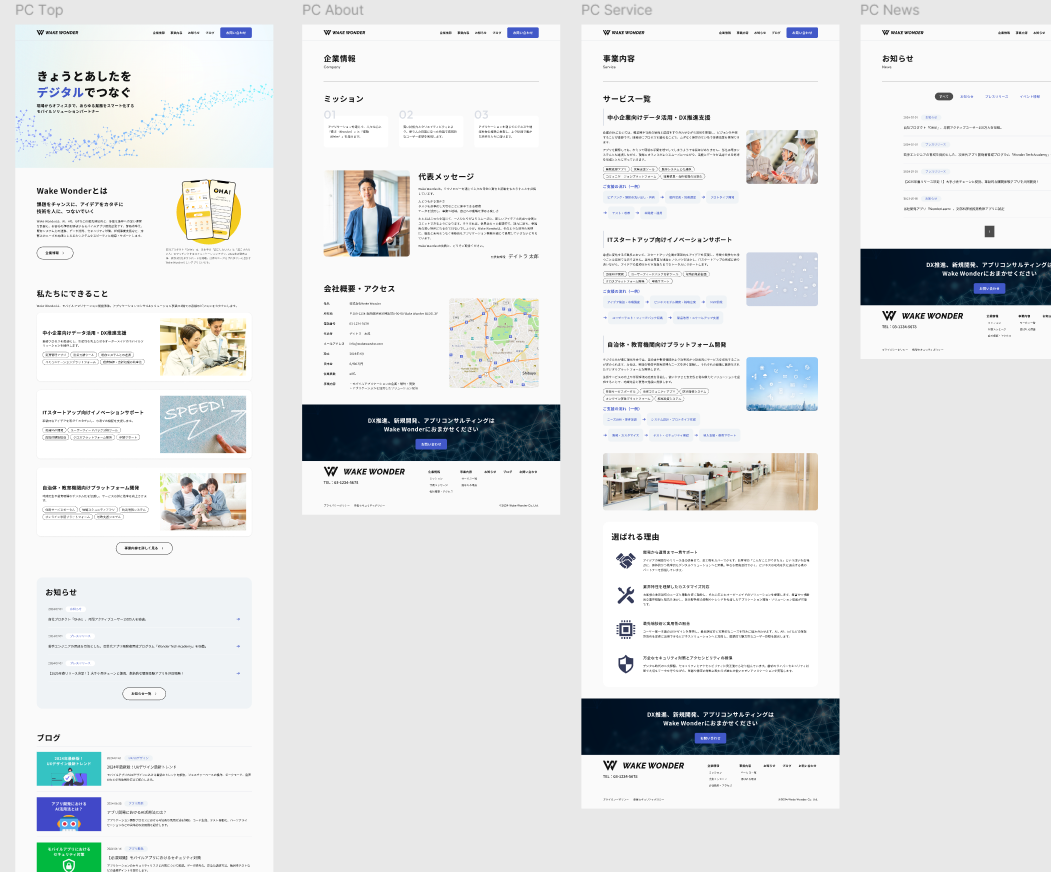
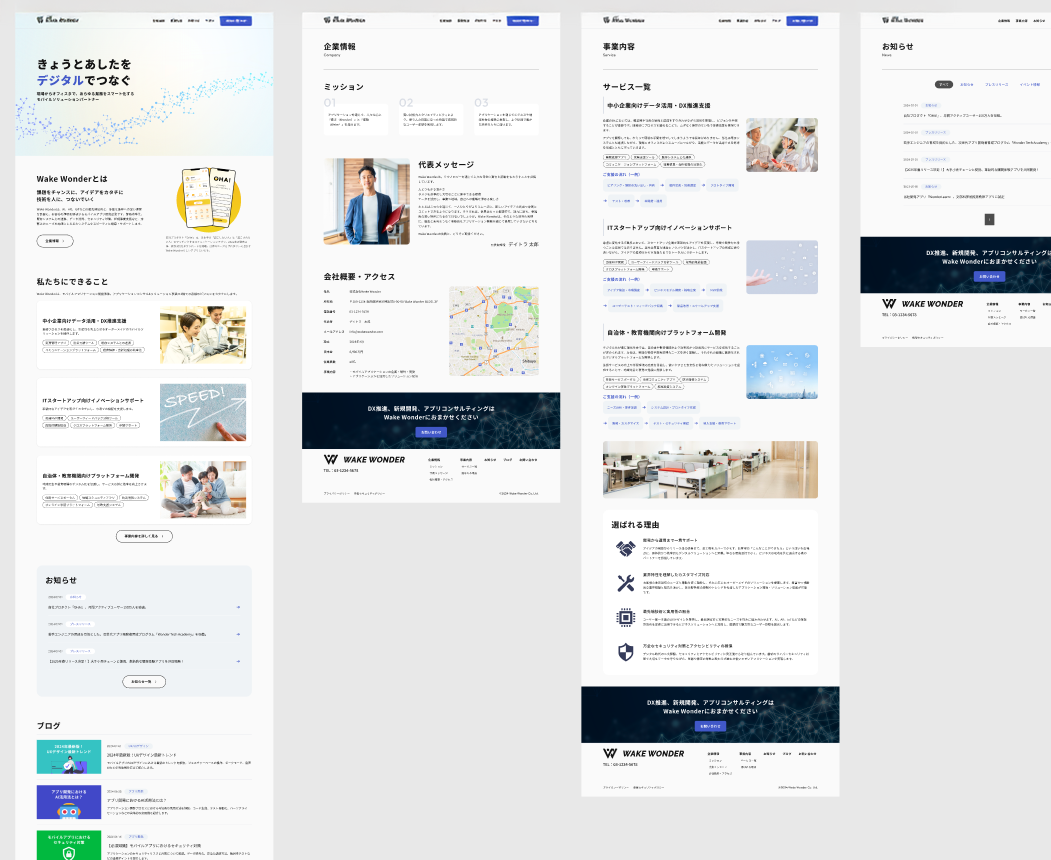
revised

diff --git a/src/styles/global.css b/src/styles/global.css
@@ -99,11 +99,11 @@ h1 {
 }
 h2 {
   font-size: var(--fs-xl);
-  margin-top: var(--sp-1);
+  margin-top: var(--sp-2);
 }
 h3 {
   font-size: var(--fs-lg);
-  margin-top: var(--sp-xs);
+  margin-top: var(--sp-1);
 }
 
 .wrapper {
@@ -128,6 +128,7 @@ h3 {
   p a {
     display: inline-block;
     font-family: var(--ff-en);
+    font-size: var(--fs-base);
     color: var(--color-bg);
     padding: var(--sp-1) var(--sp-4);
     background-color: var(--color-gray01);

diff --git a/src/content/works/sushi-service-hp.md b/src/content/works/sushi-service-hp.md
@@ -1,7 +1,7 @@
 ---
 title: 出張寿司HP
 publishDate: 2024-09-03
-img: /works/sushi-Mockup.jpg
+img: /works/sushi-Mockup.webp
 img_alt: 出張寿司のホームページモックアップ
 description: |
   オンラインスクール「デイトラ」が開催する第22回デザインコンペで応募した出張寿司のWebサイトデザインです。
@@ -16,13 +16,24 @@ tags:
 
 ## デザイン全体
 
-サービスが出張寿司ですので、「職人を自宅に呼んでも問題ないか」「お寿司がおいしそうで、頼みたいと思えるか」などの不安を解消することが重要だと考えました。ファーストビューに職人さんの動画を置くことでおおまかな人柄や振る舞いを知ってもらい、メインコンテンツには実際に握られたお寿司の画像を多く配置しました。
+サービスが出張寿司ですので、「職人を自宅に呼んでも問題ないか」「お寿司がおいしそうで、頼みたいと思えるか」などの不安を解消することが重要だと考えました。
+
+ファーストビューに職人さんの動画を置くことでおおまかな人柄や振る舞いを知ってもらい、メインコンテンツには実際に握られたお寿司の画像を多く配置しました。
 
 ## ポイント
-職人さんが中央区の議員ということで、築地や銀座などを擁する中央区の寿司文化を広めたいという思いをお持ちでした。築地市場や日本橋魚河岸など、中央区の寿司に関わる歴史を調べ、川や海のモチーフを取り入れました。
+
+職人さんが中央区の議員ということで、築地や銀座など歴史ある寿司文化を広めたいという思いをお持ちでした。築地市場や日本橋魚河岸など、中央区の寿司にまつわる歴史を調べ、川や海のモチーフを取り入れました。
 
 ## ロゴデザインについて
 
-今回はサービスの立ち上げに付随するWebサイトデザインでしたので、ファビコンや名刺などにも使ってもらうことを想定しオリジナルのロゴを制作しました。職人の方は漫画『将太の寿司』がお好きとのことだったので、主人公の将太が修行する店の名前から鳥のイメージ、中央区の歴史から青海波の文様、熱い思いを表す太陽などのモチーフをまとめ、『SUSHI WIZARDS』の名にふさわしいロゴを作り上げました。
+今回はサービスの立ち上げに付随するWebサイトデザインでしたので、ファビコンや名刺などにも使ってもらうことを想定しオリジナルのロゴを制作しました。
+
+職人の方の愛読書が漫画『将太の寿司』ということだったので、主人公の将太が修行する店の名前から鳥のイメージ、中央区の歴史から青海波の文様、熱い思いを表す太陽などのモチーフをまとめ、『SUSHI WIZARDS』の名にふさわしいロゴを作り上げました。
+
+![出張寿司Webサイトのトップページイメージ](../../../public/works/sushi-top-page.webp)
+
+![出張寿司Webサイトの下層ページイメージ](../../../public/works/sushi-sub-pages.webp)
+
+## リンク
 
 [Figma](https://www.figma.com/design/Yri32R6sSSlupy0pCPfsbD/240903_SUSHI-WIZARDS_Competition?node-id=5-57916&t=TRgQLDyp2lZKKZUP-1)

diff --git a/src/content/works/app-developer-site.md b/src/content/works/app-developer-site.md
@@ -1,7 +1,7 @@
 ---
 title: モバイルアプリ開発会社のコーポレートサイト
 publishDate: 2024-09-27
-img: /works/app-Mockup.jpg
+img: /works/app-Mockup.webp
 img_alt: モバイルアプリ開発会社のコーポレートサイトのモックアップ
 description: |
   スクールの課題で制作した、架空のモバイルアプリ開発会社のWebサイトです。
@@ -18,10 +18,20 @@ tags:
 ## セクションごとのポイント
 
 ### キャッチコピー
-現状をデジタルでよりよくする、ヒト・モノ・コトや既存のシステムと新しい技術をつなぐという意味を込めて「きょうとあしたをデジタルでつなぐ」というキャッチコピーを考えました。自社プロダクトの『OHA!』が、「朝起きれない人と起こす人をマッチングする」アプリのため、その印象を活かしたいとも思いました。
+
+現状をデジタルでよりよくする、ヒト・モノ・コトや既存のシステムと新しい技術をつなぐという意味を込めて「きょうとあしたをデジタルでつなぐ」というキャッチコピーを考えました。
+
+自社プロダクトの『OHA!』が、「朝起きれない人と起こす人をマッチングする」アプリのため、その印象を活かしたいとも思いました。
 
 ### サービス紹介
-ターゲットとするクライアントが必ずしもITに詳しいとは限らないため、使用技術やフレームワークは詳しく記載せず、代わりに「何ができるか」「どのように進めていくか」を明示しました。中小企業のイメージで製造業や物流業の写真を使っているのは、業務でモバイルアプリを活発に使用するのがオフィスのほかに「現場」をもつ人だと考えたからです。（デスクワークの人は勤怠や在宅時に使うことが多く、そのようなアプリはすでに普及していると考えました）
+
+ターゲットが必ずしもITに詳しいとは限らないため、使用技術やフレームワークは細かく記載せず、代わりに「何ができるか」「どのように進めていくか」を明示しました。
+
+中小企業のイメージで製造業や物流業の写真を使っているのは、業務でモバイルアプリを活発に使用するのがオフィスのほかに「現場」をもつ人だと考えたからです。（デスクワークの人は勤怠や在宅時に使うことが多く、そのようなアプリはすでに普及していると考えました）
+
+![モバイルアプリ開発会社Webサイトのパソコン版イメージ](../../../public/works/app-pc.webp)
+
+![モバイルアプリ開発会社Webサイトのスマートフォン版イメージ](../../../public/works/app-sp.webp)
 
 ## リンク
 

diff --git a/src/content/works/yoga-event-lp.md b/src/content/works/yoga-event-lp.md
@@ -1,7 +1,7 @@
 ---
 title: ヨガイベントLP
 publishDate: 2024-08-27
-img: /works/yoga-Mockup.jpg
+img: /works/yoga-Mockup.webp
 img_alt: やわらかい色合いの女性向けヨガイベントLPのモックアップ
 description: |
   架空のヨガイベントのLPです。Figmaでデザイン、Studioで実装もおこないました。
@@ -31,7 +31,13 @@ tags:
 
 ### タイムテーブル
 
-時間の移り変わりを感じさせるグラデーション、ふわっと浮かぶコンテンツで興味をもってもらえるよう設計しました。架空LPですが具体的なヨガセッション名を入れ、どんなことが学べるか、イベントが終わったあとの日常にも役立つような知恵が持ち帰れるか判断してもらえるようにしました。
+時間の移り変わりを感じさせるグラデーション、ふわっと浮かぶアニメーションで興味をもってもらえるようデザインしています。また架空LPではありますが具体的なヨガセッション名を入れ、どんなことが学べるかを明示しました。
+
+ゴールデンウィークという貴重な休みを使って参加してもらうので、イベントが終わったあとの日常にも持ち帰れるような知恵や良い習慣を得られることが大事だと考えたからです。
+
+![ヨガイベントLPのパソコン版イメージ](../../../public/works/yoga-pc.webp)
+
+![ヨガイベントLPのスマートフォン版イメージ](../../../public/works/yoga-sp.webp)
 
 ## リンク
 

diff --git a/src/content/works/school-banner.md b/src/content/works/school-banner.md
@@ -1,7 +1,7 @@
 ---
 title: オンラインスクールの広告バナー
 publishDate: 2024-07-06
-img: /works/240701_daytora.jpg
+img: /works/240701_daytora.webp
 img_alt: オンラインスクールで勉強している女性のイメージ
 description: |
   オンラインスクール「デイトラ」の課題で制作したスクール広告用バナーです。
@@ -12,4 +12,6 @@ tags:
 
 ## デザインについて
 
-在宅勤務、フレックス制など今までの働き方とは異なるワークスタイルをビジュアル化することで、働き方を変えたい層に興味をもってもらえるのではないかと考えました。また公式サイトへの遷移を想定しているため、イメージが乖離してユーザーを戸惑わせることがないよう注意しました。
+在宅勤務、フレックス制など今までの働き方とは異なるワークスタイルをビジュアル化することで、働き方を変えたい層に興味をもってもらえるのではないかと考えました。
+
+バナーをクリック後は公式サイトへの遷移を想定しているため、イメージが乖離してユーザーを戸惑わせることがないよう注意しました。

diff --git a/src/content/works/yogastudio-banner.md b/src/content/works/yogastudio-banner.md
@@ -1,7 +1,7 @@
 ---
 title: ヨガスタジオのキャンペーンバナー
 publishDate: 2024-05-15
-img: /works/240515_weekly.png
+img: /works/240515_weekly.webp
 img_alt: ナチュラルな雰囲気のスタジオで女性が心地よくヨガをするバナー
 description: |
   スクールの課題で制作した架空のヨガスタジオの入会キャンペーンバナーです。
@@ -12,4 +12,4 @@ tags:
 
 ## デザインについて
 
-初心者にも親しみやすく、また変に宗教っぽくならないよう、どんなスタジオなんだろう？と興味をもってもらえるように、やさしくナチュラルな雰囲気で仕上げました。
+ヨガに興味があるけれどやったことがない人、やってみようとしたことがあるけれど断念した人などに、どんなスタジオなんだろう？行ってみようかな？と思ってもらえるようなビジュアルを目指しました。ナチュラルで親しみやすく、また変にカルトっぽくならないよう、明るいイメージを心がけました。

diff --git a/src/content/works/cosme-thumbnail.md b/src/content/works/cosme-thumbnail.md
@@ -1,7 +1,7 @@
 ---
 title: トレンドコスメ紹介動画のサムネイル
 publishDate: 2024-05-29
-img: /works/240529_weekly.png
+img: /works/240529_weekly.webp
 img_alt: 透明感と上品さのあるメイクを施されたモデルとメイクアップアーティスト
 description: |
   スクールの課題で制作した架空のコスメ紹介動画のサムネイルです。
@@ -12,4 +12,4 @@ tags:
 
 ## デザインについて
 
-夏が楽しみになるよう、涼しげでかわいい感じになるよう工夫しました。トレンドに敏感な女性たちにアピールできるよう、透明感や上品さのあるビジュアルでまとめています。
+夏が楽しみになるよう、涼しげでかわいい感じになるよう工夫しました。季節を先取りするコンテンツということで、日本の女性向け雑誌を参考にデザインを作っていきました。トレンドに敏感な女性たちにアピールできるよう、透明感や上品さのあるビジュアルでまとめています。

diff --git a/src/content/works/aquarium-banner.md b/src/content/works/aquarium-banner.md
@@ -1,7 +1,7 @@
 ---
 title: 水族館のイベント告知バナー
 publishDate: 2024-06-26 
-img: /works/240626_weekly.jpg
+img: /works/240626_weekly.webp
 img_alt: 神秘的な夜の水族館イベントイメージバナー
 description: |
   スクールの課題で制作した、架空の水族館のイベント告知バナーです。
@@ -13,4 +13,4 @@ tags:
 
 ## デザインについて
 
-夜の水族館イベント告知なので、普段の日中とは違う雰囲気や特別感を演出し、行ってみたいと思ってもらえるようにしました。星空と踊っているようなクラゲの画像を組み合わせ、幻想的・ファンタジックなビジュアルを目指しました。
+夜の水族館イベント告知なので、普段の日中とは違う雰囲気や特別感を演出し、行ってみたいと思ってもらえるようにしました。星空と踊っているようなクラゲの画像を組み合わせ、幻想的・ファンタジックなビジュアルを目指しています。

diff --git a/src/content/works/summer-gift-banner.md b/src/content/works/summer-gift-banner.md
@@ -1,7 +1,7 @@
 ---
 title: ECサイトの夏ギフト特集バナー
 publishDate: 2024-07-03
-img: /works/240703_weekly.jpg
+img: /works/240703_weekly.webp
 img_alt: 魅力的なサマーギフトのイメージ
 description: |
   スクールの課題で作成した、オンラインショップに掲載する夏ギフト特集バナーです。
@@ -13,4 +13,4 @@ tags:
 
 ## デザインについて
 
-夏ギフトやお中元、暑中見舞いを検討する人は礼節や粋な感じを意識する人が多いと考え、きちんとした感じや風流なイメージになるよう心がけました。
+サマーギフトやお中元、暑中見舞いを検討する人は礼節や粋な感じを意識する人が多いと考え、きちんとした感じや風流なイメージになるよう心がけました。夏の空の色や白いかもめ、緑のもみじなど、夏らしいモチーフを多く配置しています。

diff --git a/src/content/works/recruit-thumbnail.md b/src/content/works/recruit-thumbnail.md
@@ -1,7 +1,7 @@
 ---
 title: 企業紹介動画のサムネイル
 publishDate: 2024-05-22
-img: /works/240522_weekly.png
+img: /works/240522_weekly.webp
 img_alt: スーツ姿の若い男性が微笑むYoutube動画のサムネイル
 description: |
   スクールの課題で制作した、架空の企業紹介動画のサムネイルです。
